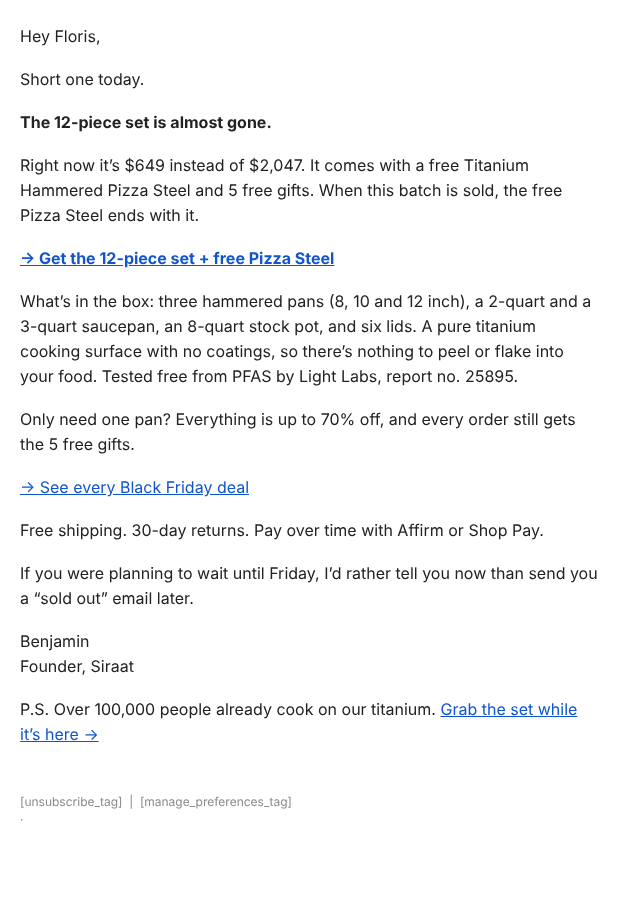
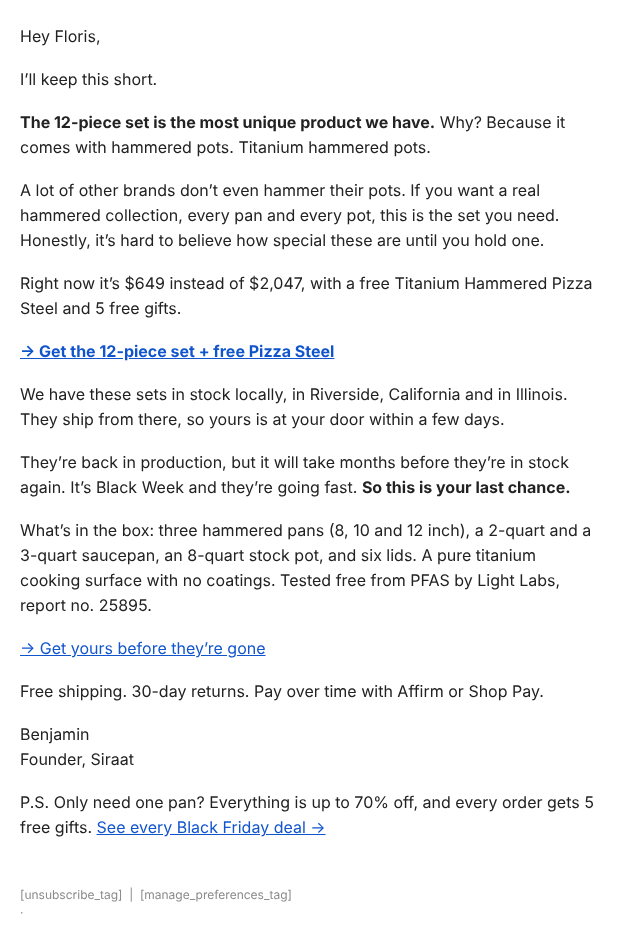
Tekstmail herschreven: hammered pots, lokaal voorradig, laatste kans
Claude-Session: https://claude.ai/code/session_01HjCaDE95ohEXY6DPZTSH67

Changed region(s): [[0.0306, 0.1244, 0.95, 0.9022], [0.0306, 0.9333, 0.4597, 0.9644], [0.0306, 0.0311, 0.2452, 0.0933]]

diff --git a/klaviyo/templates/v3/campaigns/set-almost-gone-1124/email.html b/klaviyo/templates/v3/campaigns/set-almost-gone-1124/email.html
@@ -1,20 +1,21 @@
 <!DOCTYPE html>
-<html lang="en"><head><meta charset="utf-8"><meta name="viewport" content="width=device-width,initial-scale=1"><title>The set is almost gone</title></head>
+<html lang="en"><head><meta charset="utf-8"><meta name="viewport" content="width=device-width,initial-scale=1"><title>Our most unique product</title></head>
 <body style="margin:0;padding:0;background:#FFFFFF;">
-<div style="display:none;font-size:1px;line-height:1px;max-height:0;max-width:0;opacity:0;overflow:hidden;mso-hide:all;color:transparent;">And the free Pizza Steel goes with it.&#847;&zwnj;&nbsp;&#847;&zwnj;&nbsp;&#847;&zwnj;&nbsp;&#847;&zwnj;&nbsp;&#847;&zwnj;&nbsp;&#847;&zwnj;&nbsp;&#847;&zwnj;&nbsp;&#847;&zwnj;&nbsp;&#847;&zwnj;&nbsp;&#847;&zwnj;&nbsp;&#847;&zwnj;&nbsp;&#847;&zwnj;&nbsp;&#847;&zwnj;&nbsp;&#847;&zwnj;&nbsp;&#847;&zwnj;&nbsp;&#847;&zwnj;&nbsp;&#847;&zwnj;&nbsp;&#847;&zwnj;&nbsp;&#847;&zwnj;&nbsp;&#847;&zwnj;&nbsp;&#847;&zwnj;&nbsp;&#847;&zwnj;&nbsp;&#847;&zwnj;&nbsp;&#847;&zwnj;&nbsp;&#847;&zwnj;&nbsp;&#847;&zwnj;&nbsp;&#847;&zwnj;&nbsp;&#847;&zwnj;&nbsp;&#847;&zwnj;&nbsp;&#847;&zwnj;&nbsp;&#847;&zwnj;&nbsp;&#847;&zwnj;&nbsp;&#847;&zwnj;&nbsp;&#847;&zwnj;&nbsp;&#847;&zwnj;&nbsp;&#847;&zwnj;&nbsp;&#847;&zwnj;&nbsp;&#847;&zwnj;&nbsp;&#847;&zwnj;&nbsp;&#847;&zwnj;&nbsp;&#847;&zwnj;&nbsp;&#847;&zwnj;&nbsp;&#847;&zwnj;&nbsp;&#847;&zwnj;&nbsp;&#847;&zwnj;&nbsp;&#847;&zwnj;&nbsp;&#847;&zwnj;&nbsp;&#847;&zwnj;&nbsp;&#847;&zwnj;&nbsp;&#847;&zwnj;&nbsp;&#847;&zwnj;&nbsp;&#847;&zwnj;&nbsp;&#847;&zwnj;&nbsp;&#847;&zwnj;&nbsp;&#847;&zwnj;&nbsp;&#847;&zwnj;&nbsp;&#847;&zwnj;&nbsp;&#847;&zwnj;&nbsp;&#847;&zwnj;&nbsp;&#847;&zwnj;&nbsp;</div>
+<div style="display:none;font-size:1px;line-height:1px;max-height:0;max-width:0;opacity:0;overflow:hidden;mso-hide:all;color:transparent;">Titanium hammered pots. Back in stock in months, not days.&#847;&zwnj;&nbsp;&#847;&zwnj;&nbsp;&#847;&zwnj;&nbsp;&#847;&zwnj;&nbsp;&#847;&zwnj;&nbsp;&#847;&zwnj;&nbsp;&#847;&zwnj;&nbsp;&#847;&zwnj;&nbsp;&#847;&zwnj;&nbsp;&#847;&zwnj;&nbsp;&#847;&zwnj;&nbsp;&#847;&zwnj;&nbsp;&#847;&zwnj;&nbsp;&#847;&zwnj;&nbsp;&#847;&zwnj;&nbsp;&#847;&zwnj;&nbsp;&#847;&zwnj;&nbsp;&#847;&zwnj;&nbsp;&#847;&zwnj;&nbsp;&#847;&zwnj;&nbsp;&#847;&zwnj;&nbsp;&#847;&zwnj;&nbsp;&#847;&zwnj;&nbsp;&#847;&zwnj;&nbsp;&#847;&zwnj;&nbsp;&#847;&zwnj;&nbsp;&#847;&zwnj;&nbsp;&#847;&zwnj;&nbsp;&#847;&zwnj;&nbsp;&#847;&zwnj;&nbsp;&#847;&zwnj;&nbsp;&#847;&zwnj;&nbsp;&#847;&zwnj;&nbsp;&#847;&zwnj;&nbsp;&#847;&zwnj;&nbsp;&#847;&zwnj;&nbsp;&#847;&zwnj;&nbsp;&#847;&zwnj;&nbsp;&#847;&zwnj;&nbsp;&#847;&zwnj;&nbsp;&#847;&zwnj;&nbsp;&#847;&zwnj;&nbsp;&#847;&zwnj;&nbsp;&#847;&zwnj;&nbsp;&#847;&zwnj;&nbsp;&#847;&zwnj;&nbsp;&#847;&zwnj;&nbsp;&#847;&zwnj;&nbsp;&#847;&zwnj;&nbsp;&#847;&zwnj;&nbsp;&#847;&zwnj;&nbsp;&#847;&zwnj;&nbsp;&#847;&zwnj;&nbsp;&#847;&zwnj;&nbsp;&#847;&zwnj;&nbsp;&#847;&zwnj;&nbsp;&#847;&zwnj;&nbsp;&#847;&zwnj;&nbsp;&#847;&zwnj;&nbsp;&#847;&zwnj;&nbsp;</div>
 <table role="presentation" width="100%" cellpadding="0" cellspacing="0" border="0"><tr><td align="left" style="padding:24px 20px;"><table role="presentation" width="100%" cellpadding="0" cellspacing="0" border="0" style="max-width:600px;">
 <tr><td style="padding:0 0 18px 0;font-family:-apple-system,BlinkMacSystemFont,'Segoe UI',Helvetica,Arial,sans-serif;font-size:16px;line-height:25px;color:#222222;">Hey {{ first_name|default:'there' }},</td></tr>
-<tr><td style="padding:0 0 18px 0;font-family:-apple-system,BlinkMacSystemFont,'Segoe UI',Helvetica,Arial,sans-serif;font-size:16px;line-height:25px;color:#222222;">Short one today.</td></tr>
-<tr><td style="padding:0 0 18px 0;font-family:-apple-system,BlinkMacSystemFont,'Segoe UI',Helvetica,Arial,sans-serif;font-size:16px;line-height:25px;color:#222222;"><b>The 12-piece set is almost gone.</b></td></tr>
-<tr><td style="padding:0 0 18px 0;font-family:-apple-system,BlinkMacSystemFont,'Segoe UI',Helvetica,Arial,sans-serif;font-size:16px;line-height:25px;color:#222222;">Right now it&rsquo;s $649 instead of $2,047. It comes with a free Titanium Hammered Pizza Steel and 5 free gifts. When this batch is sold, the free Pizza Steel ends with it.</td></tr>
+<tr><td style="padding:0 0 18px 0;font-family:-apple-system,BlinkMacSystemFont,'Segoe UI',Helvetica,Arial,sans-serif;font-size:16px;line-height:25px;color:#222222;">I&rsquo;ll keep this short.</td></tr>
+<tr><td style="padding:0 0 18px 0;font-family:-apple-system,BlinkMacSystemFont,'Segoe UI',Helvetica,Arial,sans-serif;font-size:16px;line-height:25px;color:#222222;"><b>The 12-piece set is the most unique product we have.</b> Why? Because it comes with hammered pots. Titanium hammered pots.</td></tr>
+<tr><td style="padding:0 0 18px 0;font-family:-apple-system,BlinkMacSystemFont,'Segoe UI',Helvetica,Arial,sans-serif;font-size:16px;line-height:25px;color:#222222;">A lot of other brands don&rsquo;t even hammer their pots. If you want a real hammered collection, every pan and every pot, this is the set you need. Honestly, it&rsquo;s hard to believe how special these are until you hold one.</td></tr>
+<tr><td style="padding:0 0 18px 0;font-family:-apple-system,BlinkMacSystemFont,'Segoe UI',Helvetica,Arial,sans-serif;font-size:16px;line-height:25px;color:#222222;">Right now it&rsquo;s $649 instead of $2,047, with a free Titanium Hammered Pizza Steel and 5 free gifts.</td></tr>
 <tr><td style="padding:0 0 18px 0;font-family:-apple-system,BlinkMacSystemFont,'Segoe UI',Helvetica,Arial,sans-serif;font-size:16px;line-height:25px;color:#222222;"><a href="https://siraatskitchen.com/products/titanium-hammered-cookware-set-12-pcs-free-pizza-steel-1?utm_source=klaviyo&amp;utm_medium=email&amp;utm_campaign=set-almost-gone-1124&amp;utm_content=link1" style="color:#1155CC;text-decoration:underline;" target="_blank"><b>&rarr; Get the 12-piece set + free Pizza Steel</b></a></td></tr>
-<tr><td style="padding:0 0 18px 0;font-family:-apple-system,BlinkMacSystemFont,'Segoe UI',Helvetica,Arial,sans-serif;font-size:16px;line-height:25px;color:#222222;">What&rsquo;s in the box: three hammered pans (8, 10 and 12 inch), a 2-quart and a 3-quart saucepan, an 8-quart stock pot, and six lids. A pure titanium cooking surface with no coatings, so there&rsquo;s nothing to peel or flake into your food. Tested free from PFAS by Light Labs, report no. 25895.</td></tr>
-<tr><td style="padding:0 0 18px 0;font-family:-apple-system,BlinkMacSystemFont,'Segoe UI',Helvetica,Arial,sans-serif;font-size:16px;line-height:25px;color:#222222;">Only need one pan? Everything is up to 70% off, and every order still gets the 5 free gifts.</td></tr>
-<tr><td style="padding:0 0 18px 0;font-family:-apple-system,BlinkMacSystemFont,'Segoe UI',Helvetica,Arial,sans-serif;font-size:16px;line-height:25px;color:#222222;"><a href="https://siraatskitchen.com/collections/black-friday-sale-limited?utm_source=klaviyo&amp;utm_medium=email&amp;utm_campaign=set-almost-gone-1124&amp;utm_content=link2" style="color:#1155CC;text-decoration:underline;" target="_blank">&rarr; See every Black Friday deal</a></td></tr>
+<tr><td style="padding:0 0 18px 0;font-family:-apple-system,BlinkMacSystemFont,'Segoe UI',Helvetica,Arial,sans-serif;font-size:16px;line-height:25px;color:#222222;">We have these sets in stock locally, in Riverside, California and in Illinois. They ship from there, so yours is at your door within a few days.</td></tr>
+<tr><td style="padding:0 0 18px 0;font-family:-apple-system,BlinkMacSystemFont,'Segoe UI',Helvetica,Arial,sans-serif;font-size:16px;line-height:25px;color:#222222;">They&rsquo;re back in production, but it will take months before they&rsquo;re in stock again. It&rsquo;s Black Week and they&rsquo;re going fast. <b>So this is your last chance.</b></td></tr>
+<tr><td style="padding:0 0 18px 0;font-family:-apple-system,BlinkMacSystemFont,'Segoe UI',Helvetica,Arial,sans-serif;font-size:16px;line-height:25px;color:#222222;">What&rsquo;s in the box: three hammered pans (8, 10 and 12 inch), a 2-quart and a 3-quart saucepan, an 8-quart stock pot, and six lids. A pure titanium cooking surface with no coatings. Tested free from PFAS by Light Labs, report no. 25895.</td></tr>
+<tr><td style="padding:0 0 18px 0;font-family:-apple-system,BlinkMacSystemFont,'Segoe UI',Helvetica,Arial,sans-serif;font-size:16px;line-height:25px;color:#222222;"><a href="https://siraatskitchen.com/products/titanium-hammered-cookware-set-12-pcs-free-pizza-steel-1?utm_source=klaviyo&amp;utm_medium=email&amp;utm_campaign=set-almost-gone-1124&amp;utm_content=link2" style="color:#1155CC;text-decoration:underline;" target="_blank">&rarr; Get yours before they&rsquo;re gone</a></td></tr>
 <tr><td style="padding:0 0 18px 0;font-family:-apple-system,BlinkMacSystemFont,'Segoe UI',Helvetica,Arial,sans-serif;font-size:16px;line-height:25px;color:#222222;">Free shipping. 30-day returns. Pay over time with Affirm or Shop Pay.</td></tr>
-<tr><td style="padding:0 0 18px 0;font-family:-apple-system,BlinkMacSystemFont,'Segoe UI',Helvetica,Arial,sans-serif;font-size:16px;line-height:25px;color:#222222;">If you were planning to wait until Friday, I&rsquo;d rather tell you now than send you a &ldquo;sold out&rdquo; email later.</td></tr>
 <tr><td style="padding:0 0 18px 0;font-family:-apple-system,BlinkMacSystemFont,'Segoe UI',Helvetica,Arial,sans-serif;font-size:16px;line-height:25px;color:#222222;">Benjamin<br>Founder, Siraat</td></tr>
-<tr><td style="padding:0 0 18px 0;font-family:-apple-system,BlinkMacSystemFont,'Segoe UI',Helvetica,Arial,sans-serif;font-size:16px;line-height:25px;color:#222222;">P.S. Over 100,000 people already cook on our titanium. <a href="https://siraatskitchen.com/products/titanium-hammered-cookware-set-12-pcs-free-pizza-steel-1?utm_source=klaviyo&amp;utm_medium=email&amp;utm_campaign=set-almost-gone-1124&amp;utm_content=link3" style="color:#1155CC;text-decoration:underline;" target="_blank">Grab the set while it&rsquo;s here &rarr;</a></td></tr>
+<tr><td style="padding:0 0 18px 0;font-family:-apple-system,BlinkMacSystemFont,'Segoe UI',Helvetica,Arial,sans-serif;font-size:16px;line-height:25px;color:#222222;">P.S. Only need one pan? Everything is up to 70% off, and every order gets 5 free gifts. <a href="https://siraatskitchen.com/collections/black-friday-sale-limited?utm_source=klaviyo&amp;utm_medium=email&amp;utm_campaign=set-almost-gone-1124&amp;utm_content=link3" style="color:#1155CC;text-decoration:underline;" target="_blank">See every Black Friday deal &rarr;</a></td></tr>
 <tr><td style="padding:28px 0 0 0;font-family:-apple-system,BlinkMacSystemFont,'Segoe UI',Helvetica,Arial,sans-serif;font-size:12px;line-height:18px;color:#8A8A8A;">
 {% unsubscribe_link %} &nbsp;|&nbsp; {% manage_preferences_link %}<br>{{ organization.name }} &middot; {{ organization.full_address }}
 </td></tr>

diff --git a/LOG.md b/LOG.md
@@ -649,3 +649,4 @@ Nieuwste bovenaan. Elke regel: datum, wat er gedaan is, wat het opleverde of wat
 - 2026-11-24 09:40 UTC: concurrenten-tijdlijn dag 43: 3 nieuwe mails, allemaal Our Place ('Savings, Served' op op-c 13:15 en op-w 15:15, 7 en 9 uur na op-b; 'Our Top Black Friday Picks' alleen op-b: vier producten zonder prijs, bonuspunten nu als 'SPEND $350 GET $30 IN BONUS POINTS', geen EXTRA10). Geen HexClad (eerste dag zonder sinds BF-start), Made In, Caraway, Okura, Plateful of Taima. tijdlijn.csv + overzicht.md (dag 43, ideeen 77-78). Niets verstuurd.
 - 2026-11-24 ~10:15 UTC: HS heeft Email 13 opnieuw aangemaakt (drafts 01M84YW2Z8WGNYDS5GECQWGP4C US, nu HS US + EB US Subscribers, ca. 108.600; 01M84YYZJJ5AQMCWQH4NRMZSJ9 INTL, EB INTL-01) zonder UJY6LA. UJY6LA toegevoegd aan beide (backups campaign-*-2026-11-24.json). Kopers-uitsluiting nog niet: voorstel aan Floris.
 - 2026-11-24 19:10 UTC: tekstmail 'The set is almost gone' (Benjamin, US) gebouwd: template SdDpRr, draft-campagne 01M87FD98K8ESG1D7XSH80W5N3, audience HS US Engaged 90D v2 (VMjhb2) min kopers 30d (WFqvwp, UfyDPs), UJY6LA, unengaged 180, vaste suppressies; smart sending aan, lokale tijd. Links naar 12-Pcs-bundel met Pizza Steel en BF-collectie (limited). Test naar Lola. Wacht op go Floris om 18:00 lokaal in te plannen.
+- 2026-11-24 ~19:30 UTC: tekstmail herschreven naar tekst Floris (vertaald): 12-Pcs = meest unieke product door titanium hammered pots, andere merken hameren pots niet, lokaal voorradig in Riverside CA en Illinois (binnen een paar dagen in huis), weer in productie maar maanden tot restock = laatste kans. Onderwerp 'Our most unique product', preview 'Titanium hammered pots. Back in stock in months, not days.' Template SdDpRr gepatcht, test naar Lola. Nog draft.
